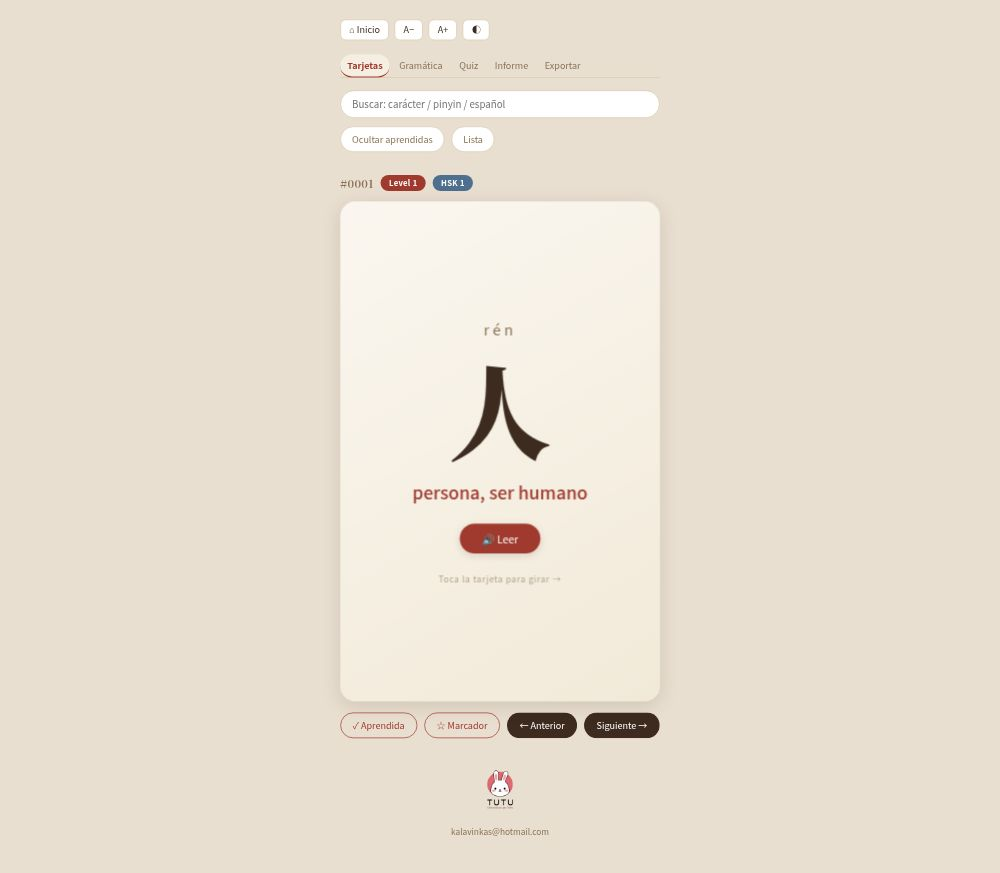
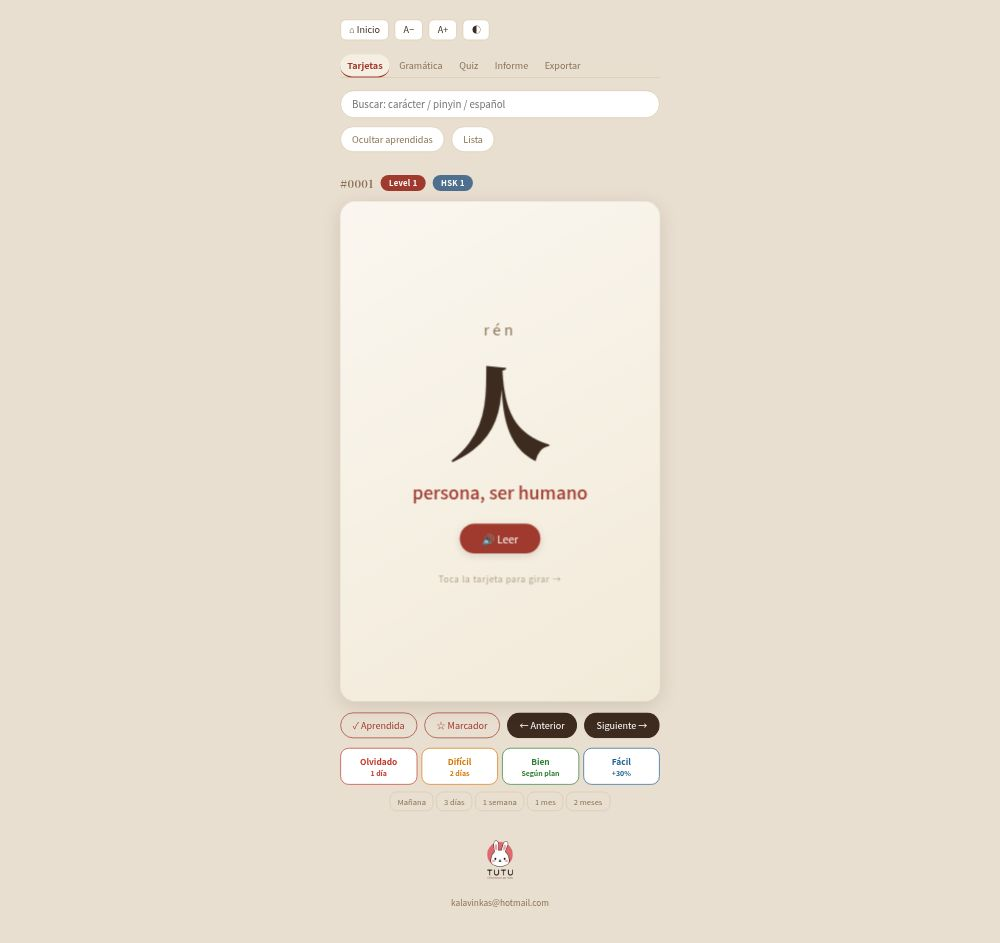
style(srs): make hanzi/clf rate buttons identical to words — flex:1 equal-width, preset border colors, same spacing

Changed region(s): [[0.341, 0.0309, 0.651, 0.2474], [0.341, 0.7423, 0.682, 0.9588], [0.403, 0.3402, 0.589, 0.6495]]

diff --git a/original/hanzi.html b/original/hanzi.html
@@ -465,15 +465,16 @@
   .ctrl-row .nav-btn:disabled { opacity: 0.35; cursor: default; }
 
   /* ===== SRS（間隔複習） ===== */
-  .srs-row { display:flex; gap:6px; justify-content:center; flex-wrap:wrap; margin:6px 0 4px; }
-  .srs-btn { padding:7px 12px; border-radius:14px; border:1.5px solid var(--line); background:var(--flip-bg, #fff); font-size:12px; font-weight:700; cursor:pointer; font-family:inherit; color:var(--text, #3a2e1a); }
-  .srs-btn small { display:block; font-weight:400; font-size:10px; opacity:.75; }
-  .srs-btn.again:hover { border-color:#c0392b; color:#c0392b; }
-  .srs-btn.hard:hover  { border-color:#b9770e; color:#b9770e; }
-  .srs-btn.good:hover  { border-color:#2e7d32; color:#2e7d32; }
-  .srs-btn.easy:hover  { border-color:#1a6fb5; color:#1a6fb5; }
-  .srs-custom { display:flex; gap:4px; justify-content:center; flex-wrap:wrap; margin-bottom:4px; }
+  .srs-row { display:flex; gap:6px; margin-bottom:10px; flex-wrap:wrap; justify-content:center; }
+  .srs-btn { flex:1; min-width:60px; padding:10px 4px; border-radius:12px; border:1.5px solid var(--line); background:var(--btn-bg); color:var(--text); font-size:12px; font-weight:700; cursor:pointer; font-family:inherit; line-height:1.3; }
+  .srs-btn.again { border-color:#c0392b; color:#c0392b; }
+  .srs-btn.hard  { border-color:#d97706; color:#d97706; }
+  .srs-btn.good  { border-color:#2e7d32; color:#2e7d32; }
+  .srs-btn.easy  { border-color:#1e6091; color:#1e6091; }
+  .srs-btn:hover { filter:brightness(0.95); }
+  .srs-custom { display:flex; gap:4px; justify-content:center; flex-wrap:wrap; margin-bottom:10px; }
   .srs-custom button { padding:5px 10px; border-radius:10px; border:1px solid var(--line); background:transparent; color:var(--mid); font-size:11px; cursor:pointer; font-family:inherit; }
+  .srs-custom button:hover { background:var(--soft); color:var(--accent); }
   .srs-toast { position:fixed; left:50%; bottom:96px; transform:translateX(-50%); background:#3a2e1a; color:#fff8e7; padding:10px 18px; border-radius:24px; font-size:13px; font-weight:600; box-shadow:0 6px 18px rgba(0,0,0,.18); opacity:0; transition:opacity .25s; z-index:99; pointer-events:none; white-space:nowrap; }
   .srs-toast.show { opacity:1; }
   .back-meta { margin-top:12px; font-size:12px; color:var(--mid); font-weight:700; min-height:16px; }

diff --git a/original/clf.html b/original/clf.html
@@ -54,15 +54,16 @@
   .nav-row {
 
   /* ===== SRS（間隔複習） ===== */
-  .srs-row { display:flex; gap:6px; justify-content:center; flex-wrap:wrap; margin:6px 0 4px; }
-  .srs-btn { padding:7px 12px; border-radius:14px; border:1.5px solid var(--line); background:#fff; font-size:12px; font-weight:700; cursor:pointer; font-family:inherit; color:var(--text); }
-  .srs-btn small { display:block; font-weight:400; font-size:10px; opacity:.75; }
-  .srs-btn.again:hover { border-color:#c0392b; color:#c0392b; }
-  .srs-btn.hard:hover  { border-color:#b9770e; color:#b9770e; }
-  .srs-btn.good:hover  { border-color:#2e7d32; color:#2e7d32; }
-  .srs-btn.easy:hover  { border-color:#1a6fb5; color:#1a6fb5; }
-  .srs-custom { display:flex; gap:4px; justify-content:center; flex-wrap:wrap; margin-bottom:4px; }
+  .srs-row { display:flex; gap:6px; margin-bottom:10px; flex-wrap:wrap; justify-content:center; }
+  .srs-btn { flex:1; min-width:60px; padding:10px 4px; border-radius:12px; border:1.5px solid var(--line); background:var(--btn-bg); color:var(--text); font-size:12px; font-weight:700; cursor:pointer; font-family:inherit; line-height:1.3; }
+  .srs-btn.again { border-color:#c0392b; color:#c0392b; }
+  .srs-btn.hard  { border-color:#d97706; color:#d97706; }
+  .srs-btn.good  { border-color:#2e7d32; color:#2e7d32; }
+  .srs-btn.easy  { border-color:#1e6091; color:#1e6091; }
+  .srs-btn:hover { filter:brightness(0.95); }
+  .srs-custom { display:flex; gap:4px; justify-content:center; flex-wrap:wrap; margin-bottom:10px; }
   .srs-custom button { padding:5px 10px; border-radius:10px; border:1px solid var(--line); background:transparent; color:var(--mid); font-size:11px; cursor:pointer; font-family:inherit; }
+  .srs-custom button:hover { background:var(--soft); color:var(--accent); }
   .srs-toast { position:fixed; left:50%; bottom:96px; transform:translateX(-50%); background:#3a2e1a; color:#fff8e7; padding:10px 18px; border-radius:24px; font-size:13px; font-weight:600; box-shadow:0 6px 18px rgba(0,0,0,.18); opacity:0; transition:opacity .25s; z-index:99; pointer-events:none; white-space:nowrap; }
   .srs-toast.show { opacity:1; }
   .back-meta { margin-top:10px; font-size:12px; color:var(--mid); font-weight:700; min-height:16px; }
